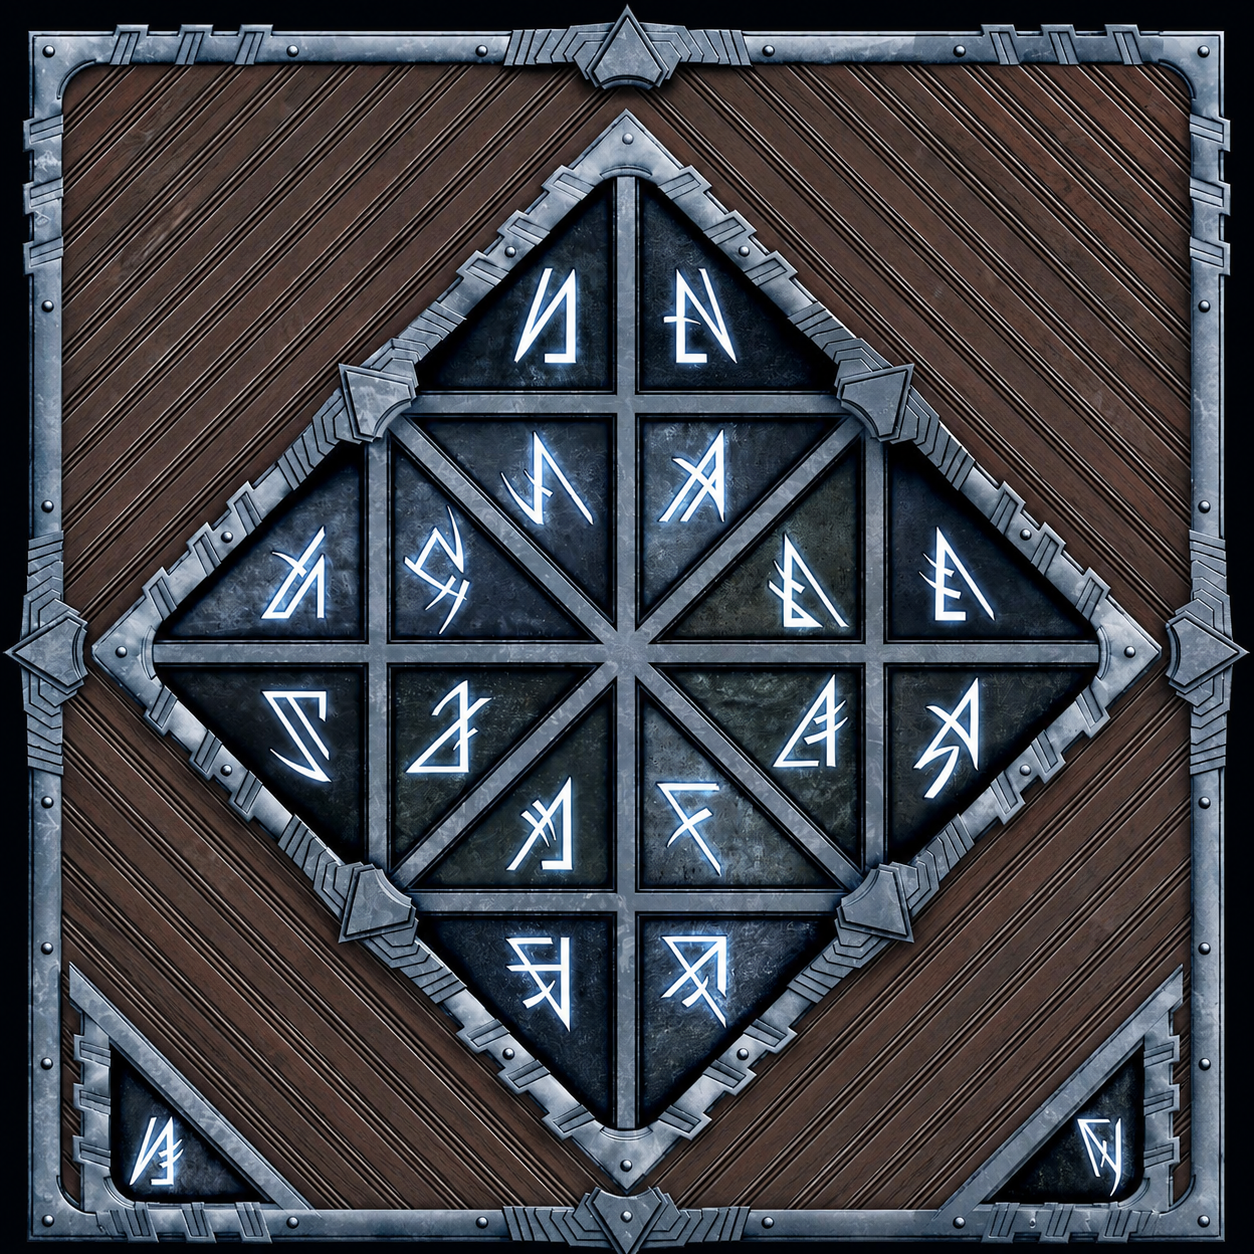
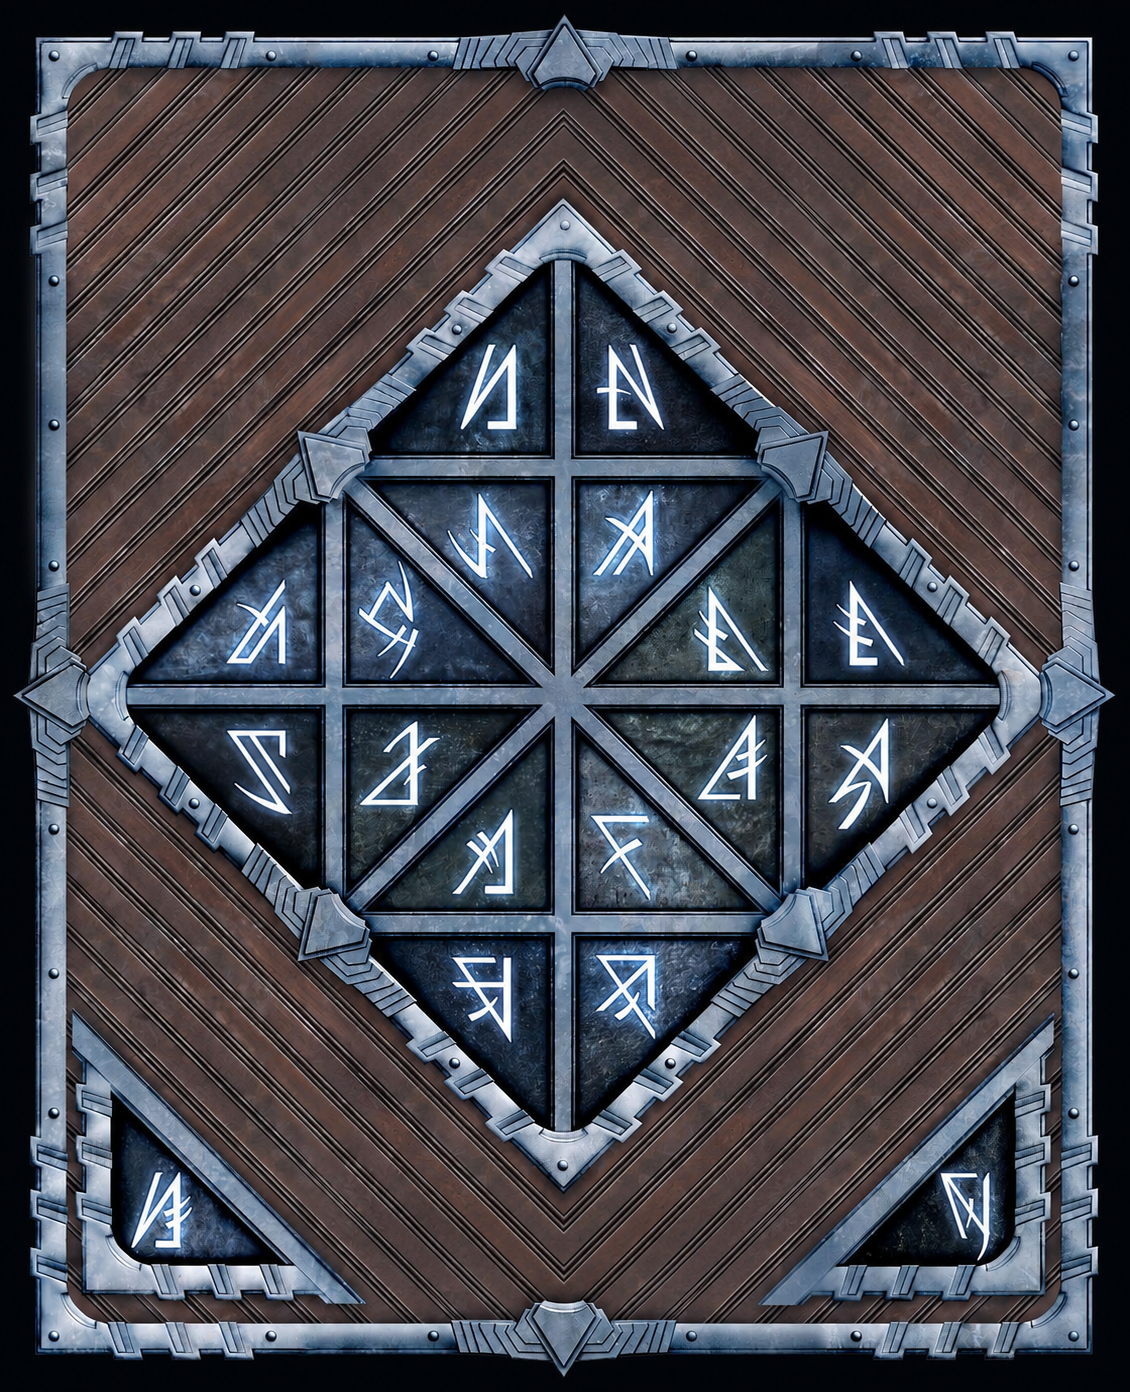
Update the Feruchemical metals picture again
The version on master was two behind: PR #2 was merged at the commit that
added the art files, so the commit that actually wires them into the brew was
left on the branch, and this picture changed twice since.

  3748985 bytes (on master) -> 3130195 bytes
  ?v=377c67a8 -> ?v=12c46146

diff --git a/final-render/mistborn-homebrew.md b/final-render/mistborn-homebrew.md
@@ -374,7 +374,7 @@ A Misting begins play with **1d6 grams** of their metal, as small beads or a via
 
 {{wide
 <!--h:44-->
-![chart-allomancy](https://cdn.jsdelivr.net/gh/The-Architects727/MistbornDnD@master/final-render/art/chart-allomancy.svg?v=cf8d6cb8){width:100%}
+![chart-allomancy](https://cdn.jsdelivr.net/gh/The-Architects727/MistbornDnD@master/final-render/art/chart-allomancy.svg?v=36659291){width:100%}
 }}
 
 \page
@@ -1833,7 +1833,7 @@ A piece of your metal used for storage is a **metalmind**: a ring, a bracer, a s
 
 {{wide
 <!--h:44-->
-![chart-feruchemy](https://cdn.jsdelivr.net/gh/The-Architects727/MistbornDnD@master/final-render/art/chart-feruchemy.svg?v=91731eed){width:100%}
+![chart-feruchemy](https://cdn.jsdelivr.net/gh/The-Architects727/MistbornDnD@master/final-render/art/chart-feruchemy.svg?v=16b55c8d){width:100%}
 }}
 
 \page
@@ -1923,7 +1923,7 @@ There is no hard ceiling on how hard you may draw. The losses are the ceiling. P
 A Ferring begins play with a **ring** of their metal weighing **1d8 grams**, and the knowledge of how to use it.
 
 {{imageMaskCorner21,--offsetX:0%,--offsetY:-30%,--rotation:0
-  ![The Feruchemical metals, by the Ferring starting equipment](https://cdn.jsdelivr.net/gh/The-Architects727/MistbornDnD@master/final-render/art/ferrings-feruchemical-metals.png?v=e509444a){height:100%}
+  ![The Feruchemical metals, by the Ferring starting equipment](https://cdn.jsdelivr.net/gh/The-Architects727/MistbornDnD@master/final-render/art/ferrings-feruchemical-metals.png?v=12c46146){height:100%}
 }}
 
 \page
@@ -4329,7 +4329,7 @@ This applies to **anyone** carrying spikes, including you, your allies, and your
 
 {{wide
 <!--h:44-->
-![chart-hemalurgy](https://cdn.jsdelivr.net/gh/The-Architects727/MistbornDnD@master/final-render/art/chart-hemalurgy.svg?v=612c2c56){width:100%}
+![chart-hemalurgy](https://cdn.jsdelivr.net/gh/The-Architects727/MistbornDnD@master/final-render/art/chart-hemalurgy.svg?v=e7224f2c){width:100%}
 }}
 
 | God metal | Steals |
